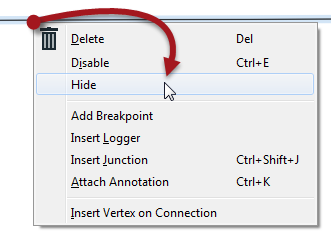
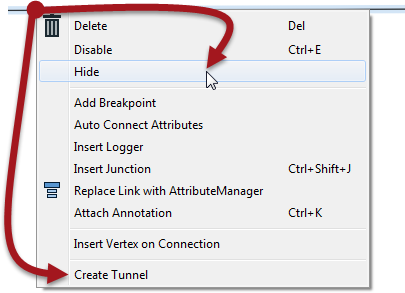
Updates and clarifications to junctions/tunnels

Changed region(s): [[0.0, 0.0, 1.0, 1.0], [0.1813, 0.4726, 0.4834, 0.5316], [0.6949, 0.5612, 0.8761, 0.5907]]

diff --git a/DesktopBasic3BestPractice/3.07.GeneralStyle.md b/DesktopBasic3BestPractice/3.07.GeneralStyle.md
@@ -200,11 +200,14 @@ FME2016.1 introduces a new transformer called "Junction":
 <tr>
 <td style="border: 1px solid darkorange">
 <span style="font-family:serif; font-style:italic; font-size:larger">
-FME2016.1 also introduces the ability to hide connections in a workspace, creating what is sometimes known as a "tunnel" or "wormhole". To do so, right-click a connection and choose the option to Hide:
+FME2016.1 also introduces the ability to hide connections in a workspace. This is especially useful to avoid overlapping connections. To do so, right-click a connection and choose the option to Hide:
 <br><br><img src="./Images/Img3.99b.HideConnection.png">
 <br><br>This causes the connection to be hidden on the canvas, with each end represented by an icon like so:
 <br><br><img src="./Images/Img3.99c.HiddenConnection.png">
-<br><br>This is especially useful to avoid overlapping connections. To return a connection back to view, simply right-click an object to which it is connected and choose Show Connection(s).
+<br><br>The other available option is "Create Tunnel". This creates a hidden connection with the addition of a junction transformer at each end:
+<br><br><img src="./Images/Img3.99d.HiddenTunnelConnection.png">
+<br><br>A tunnel makes a hidden connection slightly more obvious, plus allows for annotation at each end.
+<br><br>To return a connection back to view, simply right-click an object to which it is connected and choose Show Connection(s). For more information on Tunnels and Junctions see <strong><a href="http://blog.safe.com/2016/05/fmeevangelist150/">this blog post</a></strong>.
 </span>
 </td>
 </tr>
